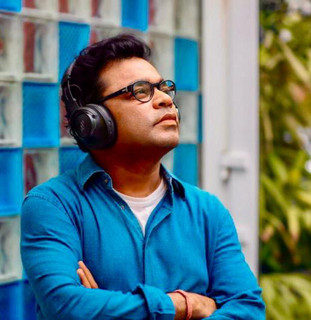
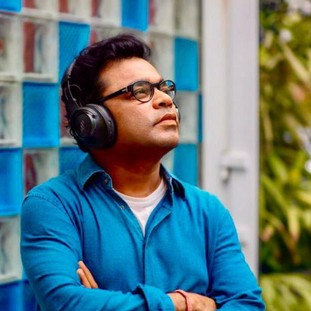
did a little work on responsiveness

diff --git a/script.js b/script.js
@@ -9,11 +9,26 @@ let newVolume = 0.7;
 
 const songs2 = [
   {
-    title: "Agar Tum Saath Ho",
-    artist: "Alka Yagnik, Arijit Singh",
-    filePath: "songs/agar_tum_saath_ho.mp3",
+    title: "Ve Kamleya",
+    artist: "Arijit Singh, Shreya Ghoshal , Pritam",
+    filePath: "songs/ve_kamleya.mp3",
     language: "Hindi",
-    imgTag: '<img class="song_card_image" src="song_img/agar_tum_saath_ho.jpeg" alt="agar_tum_saath_ho_img">'
+    imgTag: '<img class="song_card_image" src="song_img/ve_kamleya.jpeg" alt="ve_kamleya_img">'
+  },
+   {
+    title: "Raataan Lambiyan (Shershaah)",
+    artist: "Jubin Nautiyal, Asees Kaur , Tanishk Bagchi",
+    filePath: "songs/raataan_lambiyan_shershaah.mp3",
+    language: "Hindi",
+    imgTag: '<img class="song_card_image" src="song_img/raataan_lambiyan_shershaah.jpeg" alt="raataan_lambiyan_shershaah_img">'
+  },
+ 
+  {
+    title: "Millionaire Song",
+    artist: "Yo Yo Honey Singh",
+    filePath: "songs/millionaire_song.mp3",
+    language: "Hindi",
+    imgTag: '<img class="song_card_image" src="song_img/millionaire_song.jpeg" alt="millionaire_song_img">'
   },
   {
     title: "Apna Bana Le",
@@ -21,6 +36,13 @@ const songs2 = [
     filePath: "songs/apna_bana_le.mp3",
     language: "Hindi",
     imgTag: '<img class="song_card_image" src="song_img/apna_bana_le.jpeg" alt="apna_bana_le_img">'
+  },
+  {
+    title: "Hukum (Jailer)",
+    artist: "Anirudh Ravichander, Super Subu",
+    filePath: "songs/hukum_jailer.mp3",
+    language: "Hindi",
+    imgTag: '<img class="song_card_image" src="song_img/hukum_jailer.jpeg" alt="hukum_jailer_img">'
   },
   {
     title: "On & On",
@@ -56,6 +78,13 @@ const songs2 = [
     filePath: "songs/o_maahi.mp3",
     language: "Hindi",
     imgTag: '<img class="song_card_image" src="song_img/o_maahi.jpeg" alt="o_maahi_img">'
+  },
+   {
+    title: "Agar Tum Saath Ho",
+    artist: "Alka Yagnik, Arijit Singh",
+    filePath: "songs/agar_tum_saath_ho.mp3",
+    language: "Hindi",
+    imgTag: '<img class="song_card_image" src="song_img/agar_tum_saath_ho.jpeg" alt="agar_tum_saath_ho_img">'
   },
   {
     title: "Royalty",
@@ -162,13 +191,7 @@ const songs2 = [
     language: "Hindi",
     imgTag: '<img class="song_card_image" src="song_img/zinda_bhaag_milkha_bhaag.jpeg" alt="zinda_bhaag_milkha_bhaag_img">'
   },
-  {
-    title: "Hukum (Jailer)",
-    artist: "Anirudh Ravichander, Super Subu",
-    filePath: "songs/hukum_jailer.mp3",
-    language: "Hindi",
-    imgTag: '<img class="song_card_image" src="song_img/hukum_jailer.jpeg" alt="hukum_jailer_img">'
-  },
+  
   {
     title: "Chaleya Jawan",
     artist: "Anirudh Ravichander , Arijit Singh , Shilpa Rao , Kumaar",
@@ -288,13 +311,7 @@ const songs2 = [
     language: "Hindi",
     imgTag: '<img class="song_card_image" src="song_img/jeene_laga_hoon.jpeg" alt="jeene_laga_hoon_img">'
   },
-  {
-    title: "Ve Kamleya",
-    artist: "Arijit Singh, Shreya Ghoshal , Pritam",
-    filePath: "songs/ve_kamleya.mp3",
-    language: "Hindi",
-    imgTag: '<img class="song_card_image" src="song_img/ve_kamleya.jpeg" alt="ve_kamleya_img">'
-  },
+  
   {
     title: "Samjhawan",
     artist: "Arijit Singh, Shreya Ghoshal , Jawad Ahmad ",
@@ -309,13 +326,7 @@ const songs2 = [
     language: "Hindi",
     imgTag: '<img class="song_card_image" src="song_img/tum_kya_mile.jpeg" alt="tum_kya_mile_img">'
   },
-  {
-    title: "Millionaire Song",
-    artist: "Yo Yo Honey Singh",
-    filePath: "songs/millionaire_song.mp3",
-    language: "Hindi",
-    imgTag: '<img class="song_card_image" src="song_img/millionaire_song.jpeg" alt="millionaire_song_img">'
-  },
+  
   {
     title: "Dheere Dheere Se Mere Zindagi",
     artist: "Yo Yo Honey Singh",
@@ -421,13 +432,7 @@ const songs2 = [
     language: "Hindi",
     imgTag: '<img class="song_card_image" src="song_img/tum_hi_aana_marjaavaan.jpeg" alt="tum_hi_aana_marjaavaan_img">'
   },
-  {
-    title: "Raataan Lambiyan (Shershaah)",
-    artist: "Jubin Nautiyal, Asees Kaur , Tanishk Bagchi",
-    filePath: "songs/raataan_lambiyan_shershaah.mp3",
-    language: "Hindi",
-    imgTag: '<img class="song_card_image" src="song_img/raataan_lambiyan_shershaah.jpeg" alt="raataan_lambiyan_shershaah_img">'
-  },
+ 
   {
     title: "Hamari Adhuri Kahani",
     artist: "Arijit Singh , Jeet Gannguli , Rashmi Virag",

diff --git a/index.html b/index.html
@@ -77,9 +77,7 @@
                         </p>
                     </div>
                     <div class="songs_listened ">
-                        <p class="initial_song_message font_manrope font_14 flex vcentre hcentre">Songs you listen will
-                            get
-                            added here </p>
+                        <p class="initial_song_message font_manrope font_14 flex vcentre hcentre">Songs you listen will get added here </p>
                     </div>
                 </div>
 

diff --git a/style.css b/style.css
@@ -447,8 +447,9 @@
         position: relative;
         border-radius: 10px;
         padding: 8px;
-        height: 290px;
+        aspect-ratio: 200/290;
         width: 200px;
+        height: 290px;
     }
 
     .song_card:hover,
@@ -463,6 +464,7 @@
     .song_card img {
         height: 172px;
         width: 182px;
+        object-fit: cover;
     }
 
     .popular_artist_card img {
